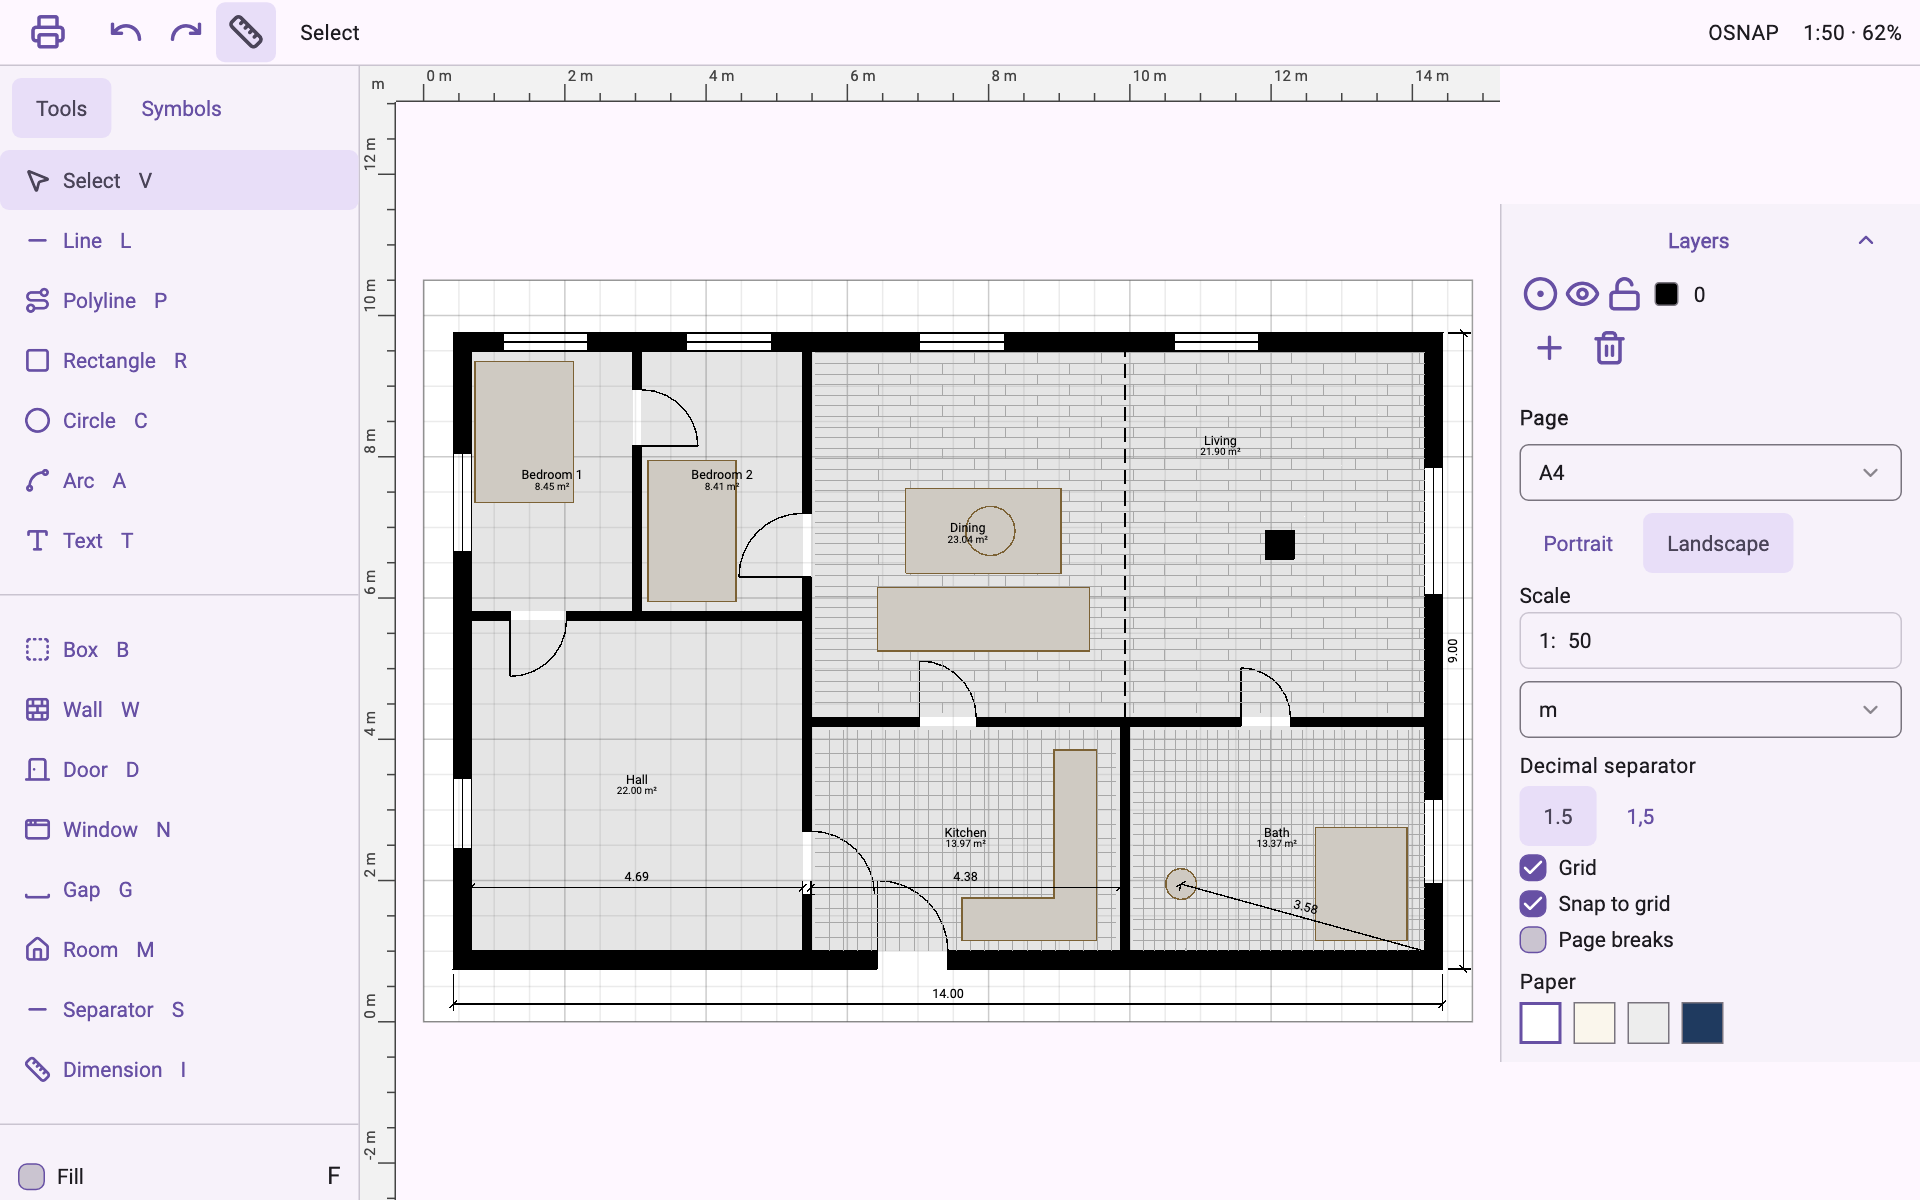
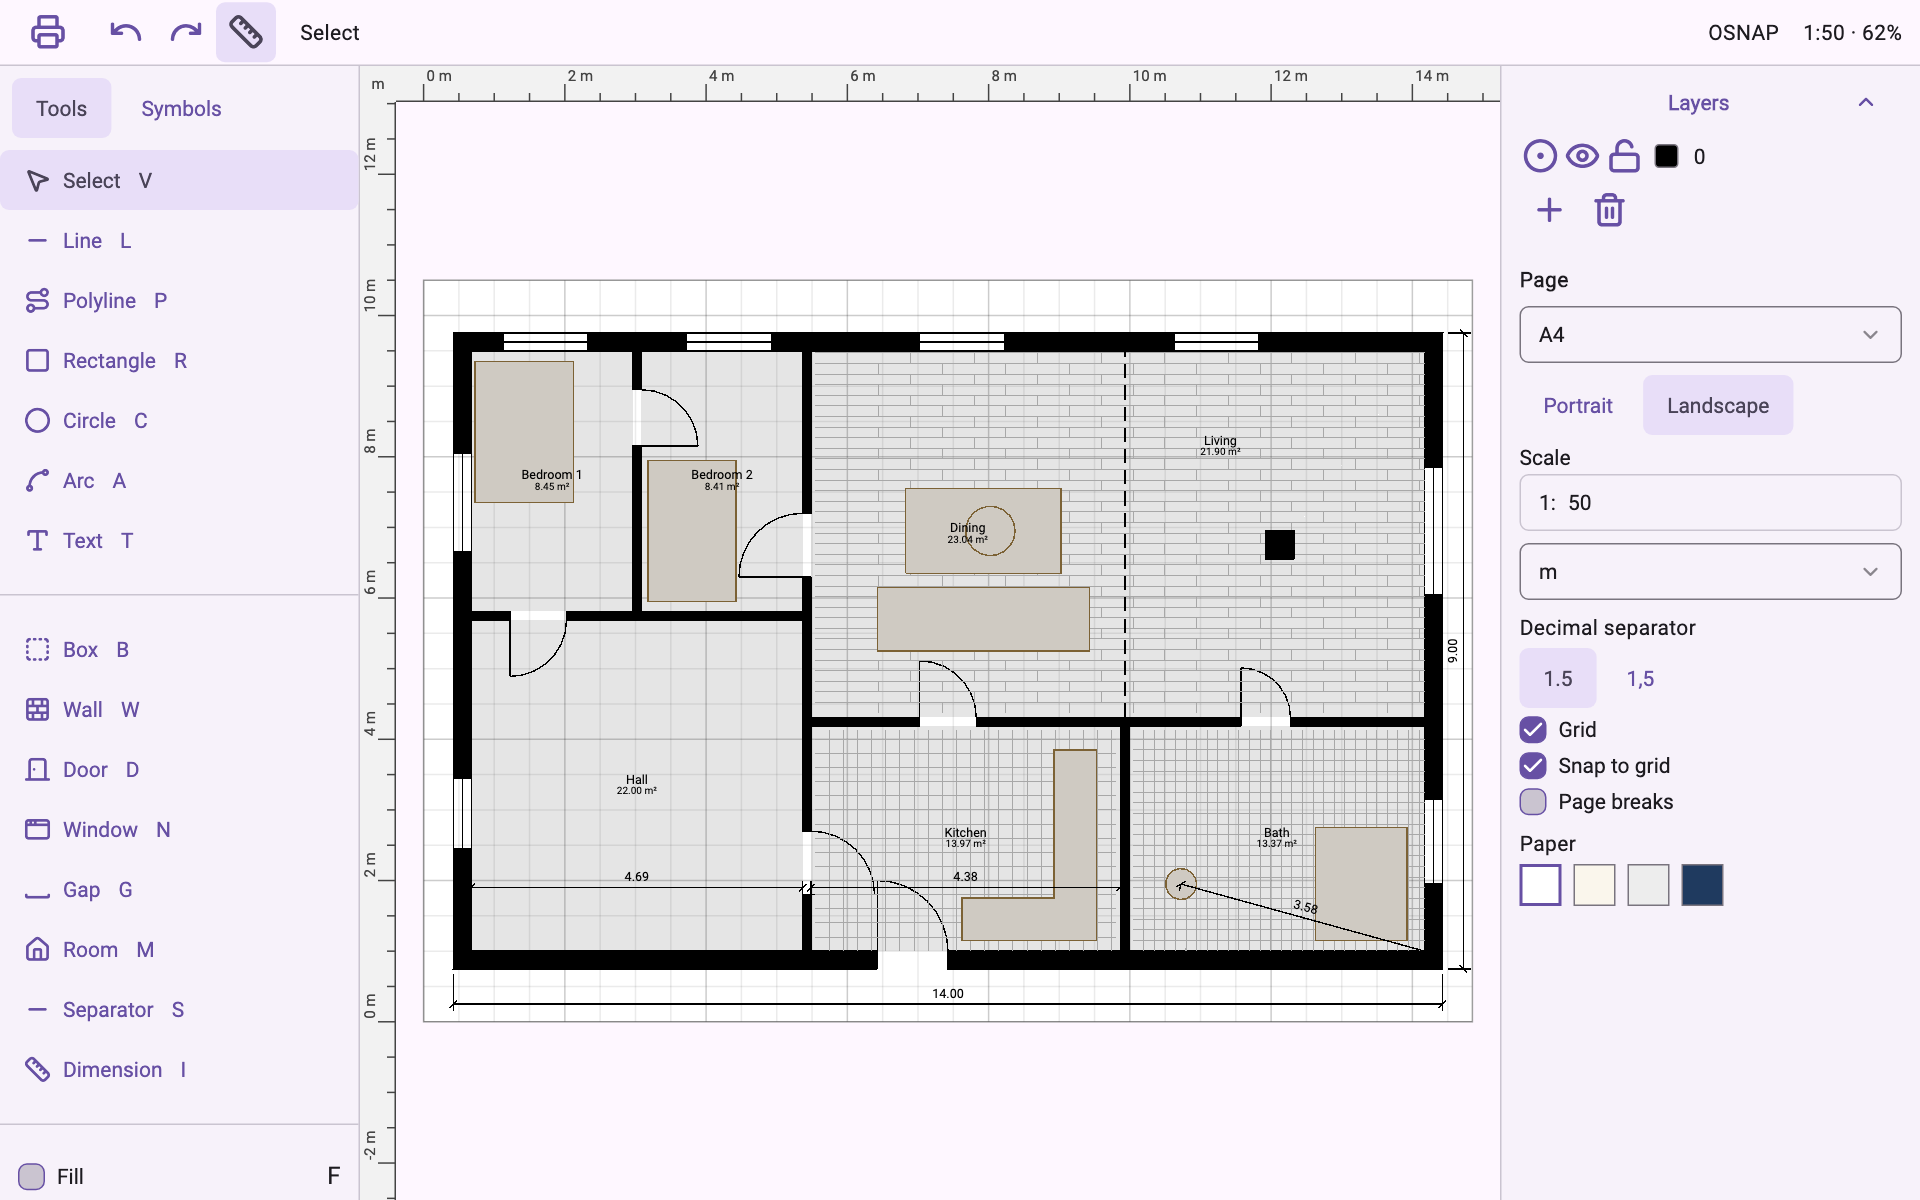
release: jet_cad_2d_plan 1.0.1, jet_cad_2d_kit_restaurant 0.1.2 (README pictures)
The editor pictures were taken before the right column started at the top;
regenerated with tool/screenshots, they show 1.0's layout. README images
pin the new tags. No code change.

diff --git a/packages/jet_cad_2d_kit_restaurant/test/restaurant_words_test.dart b/packages/jet_cad_2d_kit_restaurant/test/restaurant_words_test.dart
@@ -35,7 +35,7 @@ List<KitProblem> problems() => conformance(
 void main() {
   test('the kit is the contract\'s: id, version, one source, no code side', () {
     expect(restaurantKit.id, 'restaurant');
-    expect(restaurantKit.version, '0.1.1');
+    expect(restaurantKit.version, '0.1.2');
     expect(restaurantKit.validate(), isEmpty);
     expect(restaurantKit.symbols, [same(restaurantSymbolSource)]);
     expect(restaurantKit.names, same(restaurantNames));

diff --git a/packages/jet_cad_2d_kit_restaurant/lib/src/kit.dart b/packages/jet_cad_2d_kit_restaurant/lib/src/kit.dart
@@ -9,7 +9,7 @@ import 'restaurant_source.dart';
 /// `PlanController(kits: [restaurantKit])`.
 final PlanKit restaurantKit = PlanKit(
   id: 'restaurant',
-  version: '0.1.1',
+  version: '0.1.2',
   symbols: [restaurantSymbolSource],
   names: restaurantNames,
 );

diff --git a/packages/jet_cad_2d_kit_restaurant/README.md b/packages/jet_cad_2d_kit_restaurant/README.md
@@ -5,7 +5,7 @@ The restaurant kit of jet_cad_2d plans: a library of 69 restaurant symbols
 decor) on the kit contract (`jet_cad_2d_kit`), 25 of them numbered table
 units. It depends on the contract only, never on the plan library.
 
-![The demo's Salon: the kit's tables, booths, bar and host stand](https://raw.githubusercontent.com/a-urel/jet-cad/jet_cad_2d_kit_restaurant-v0.1.1/packages/jet_cad_2d_kit_restaurant/doc/screenshots/restaurant_salon.png)
+![The demo's Salon: the kit's tables, booths, bar and host stand](https://raw.githubusercontent.com/a-urel/jet-cad/jet_cad_2d_kit_restaurant-v0.1.2/packages/jet_cad_2d_kit_restaurant/doc/screenshots/restaurant_salon.png)
 
 ## What it holds
 
@@ -29,7 +29,7 @@ the plan draws walls, floors and doors: `kits: [architectureKit, restaurantKit]`
 
 ## Screenshots
 
-![PlanSymbolGallery over the kit's symbols, its sections listed and one open](https://raw.githubusercontent.com/a-urel/jet-cad/jet_cad_2d_kit_restaurant-v0.1.1/packages/jet_cad_2d_kit_restaurant/doc/screenshots/restaurant_gallery.png)
+![PlanSymbolGallery over the kit's symbols, its sections listed and one open](https://raw.githubusercontent.com/a-urel/jet-cad/jet_cad_2d_kit_restaurant-v0.1.2/packages/jet_cad_2d_kit_restaurant/doc/screenshots/restaurant_gallery.png)
 
 The plan library's symbol gallery over the kit's library: the six restaurant
 sections, one of them open, its symbols as thumbnail cells.

diff --git a/packages/jet_cad_2d_plan/README.md b/packages/jet_cad_2d_plan/README.md
@@ -22,7 +22,7 @@ names a kit the host did not load opens, draws and saves its objects
 unchanged, and locks them; a kit whose code fails is contained to the
 objects it broke.
 
-![The plan editor over a sample flat: walls, rooms, doors, windows and furniture](https://raw.githubusercontent.com/a-urel/jet-cad/jet_cad_2d_plan-v1.0.0/packages/jet_cad_2d_plan/doc/screenshots/plan_editor.png)
+![The plan editor over a sample flat: walls, rooms, doors, windows and furniture](https://raw.githubusercontent.com/a-urel/jet-cad/jet_cad_2d_plan-v1.0.1/packages/jet_cad_2d_plan/doc/screenshots/plan_editor.png)
 
 ## Use
 
@@ -126,7 +126,7 @@ class PlanExampleAppState extends State<PlanExampleApp> {
 
 ## Screenshots
 
-![PlanSymbolGallery, the plan library's symbol library, over the architecture kit's furniture](https://raw.githubusercontent.com/a-urel/jet-cad/jet_cad_2d_plan-v1.0.0/packages/jet_cad_2d_plan/doc/screenshots/plan_gallery.png)
+![PlanSymbolGallery, the plan library's symbol library, over the architecture kit's furniture](https://raw.githubusercontent.com/a-urel/jet-cad/jet_cad_2d_plan-v1.0.1/packages/jet_cad_2d_plan/doc/screenshots/plan_gallery.png)
 
 `PlanSymbolGallery`: the plan library's symbol library, the loaded kits'
 symbols in collapsible categories of thumbnail cells, browsable with a search

diff --git a/packages/jet_cad_2d_plan/CHANGELOG.md b/packages/jet_cad_2d_plan/CHANGELOG.md
@@ -1,3 +1,8 @@
+## 1.0.1
+
+- The README's editor picture shows the right column from the top, as 1.0.0
+  lays it out (the picture was taken before that fix). No code change.
+
 ## 1.0.0
 
 - Depends on `jet_cad_2d_flutter: ^0.7.4`. The public API is stable from

diff --git a/packages/jet_cad_2d_kit_restaurant/CHANGELOG.md b/packages/jet_cad_2d_kit_restaurant/CHANGELOG.md
@@ -1,3 +1,8 @@
+## 0.1.2
+
+- The README's Salon picture shows the plan library's right column from the
+  top. No code change.
+
 ## 0.1.1
 
 - The README screenshots show the plan library 1.0.0's chrome.
